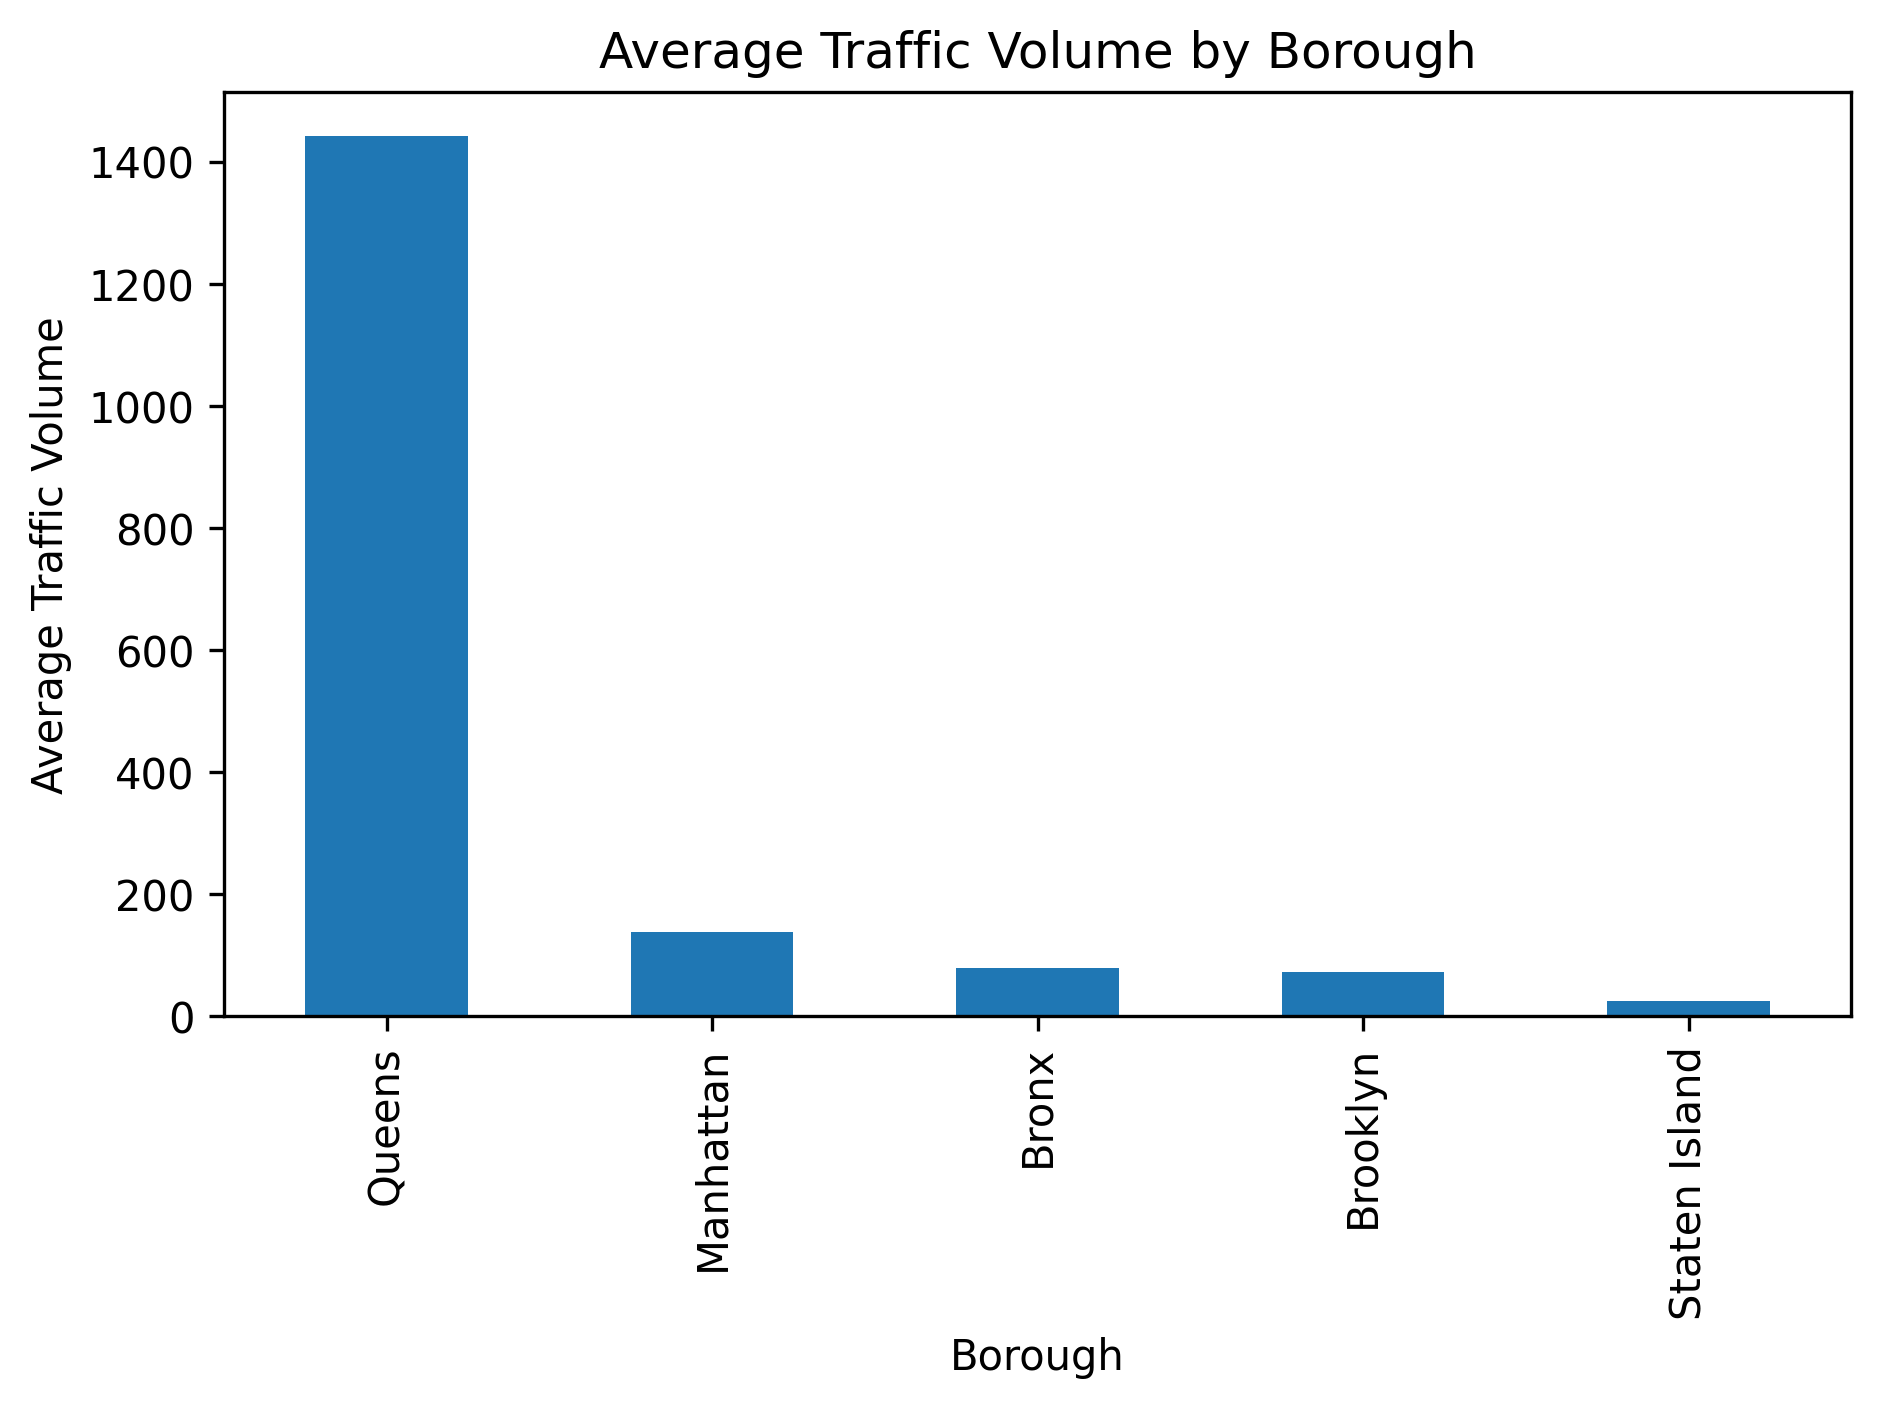
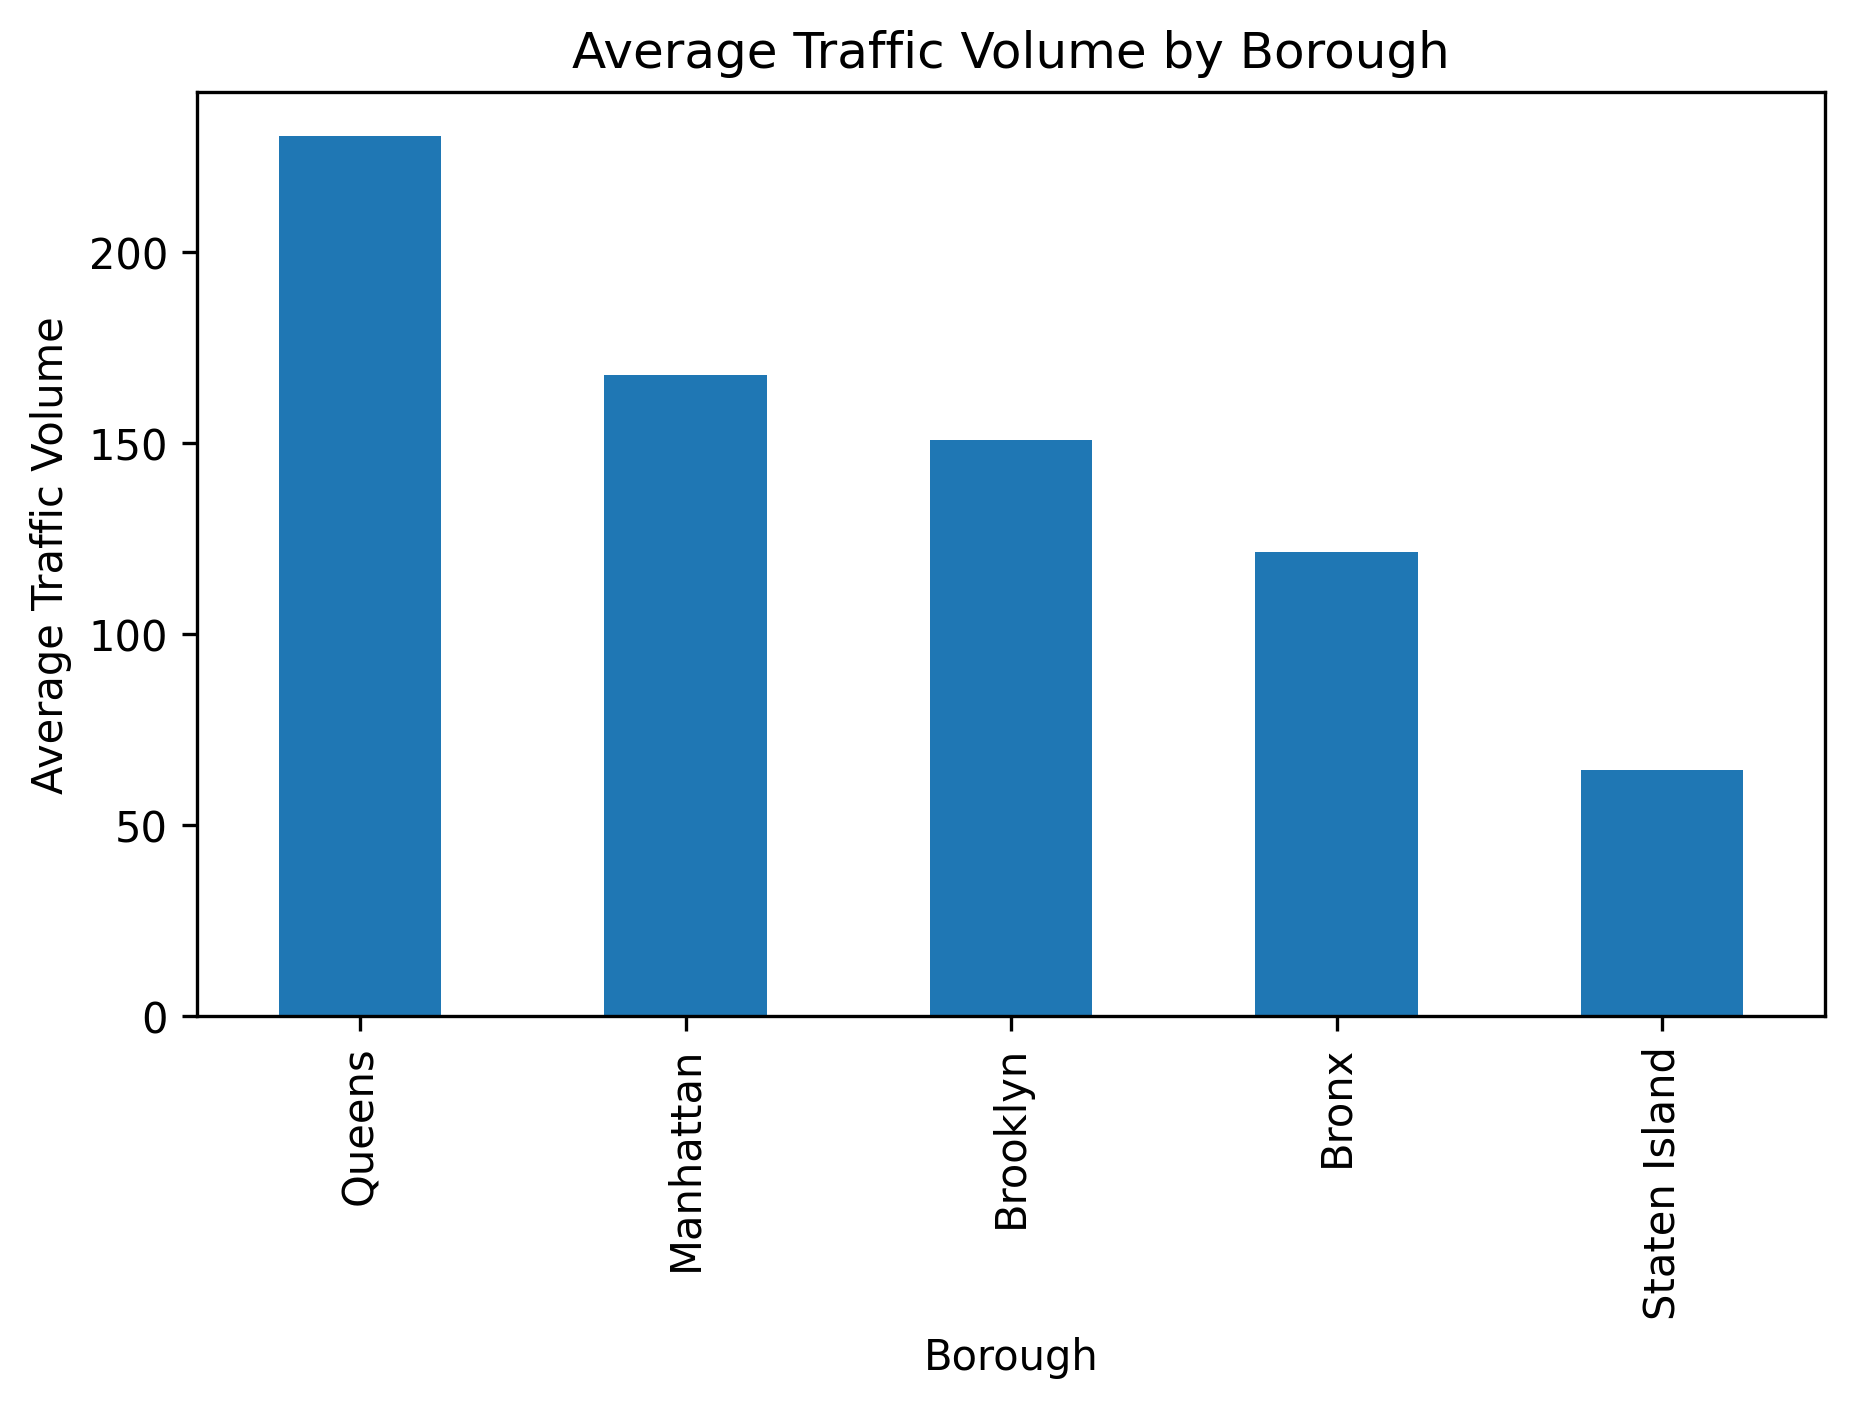
update timeline

diff --git a/api_pipeline.py b/api_pipeline.py
@@ -15,8 +15,8 @@ weather_url = "https://archive-api.open-meteo.com/v1/archive"
 weather_params = {
     "latitude": 40.7128,
     "longitude": -74.0060,
-    "start_date": "2023-01-01",
-    "end_date": "2023-12-31",
+    "start_date": "2024-01-01",
+    "end_date": "2024-12-31",
     "hourly": [
         "temperature_2m",
         "rain",
@@ -49,7 +49,7 @@ while True:
     traffic_params = {
         "$limit": limit,
         "$offset": offset,
-        "$where": "yr = 2023"
+        "$where": "yr = 2024"
     }
 
     traffic_response = requests.get(traffic_url, params=traffic_params)